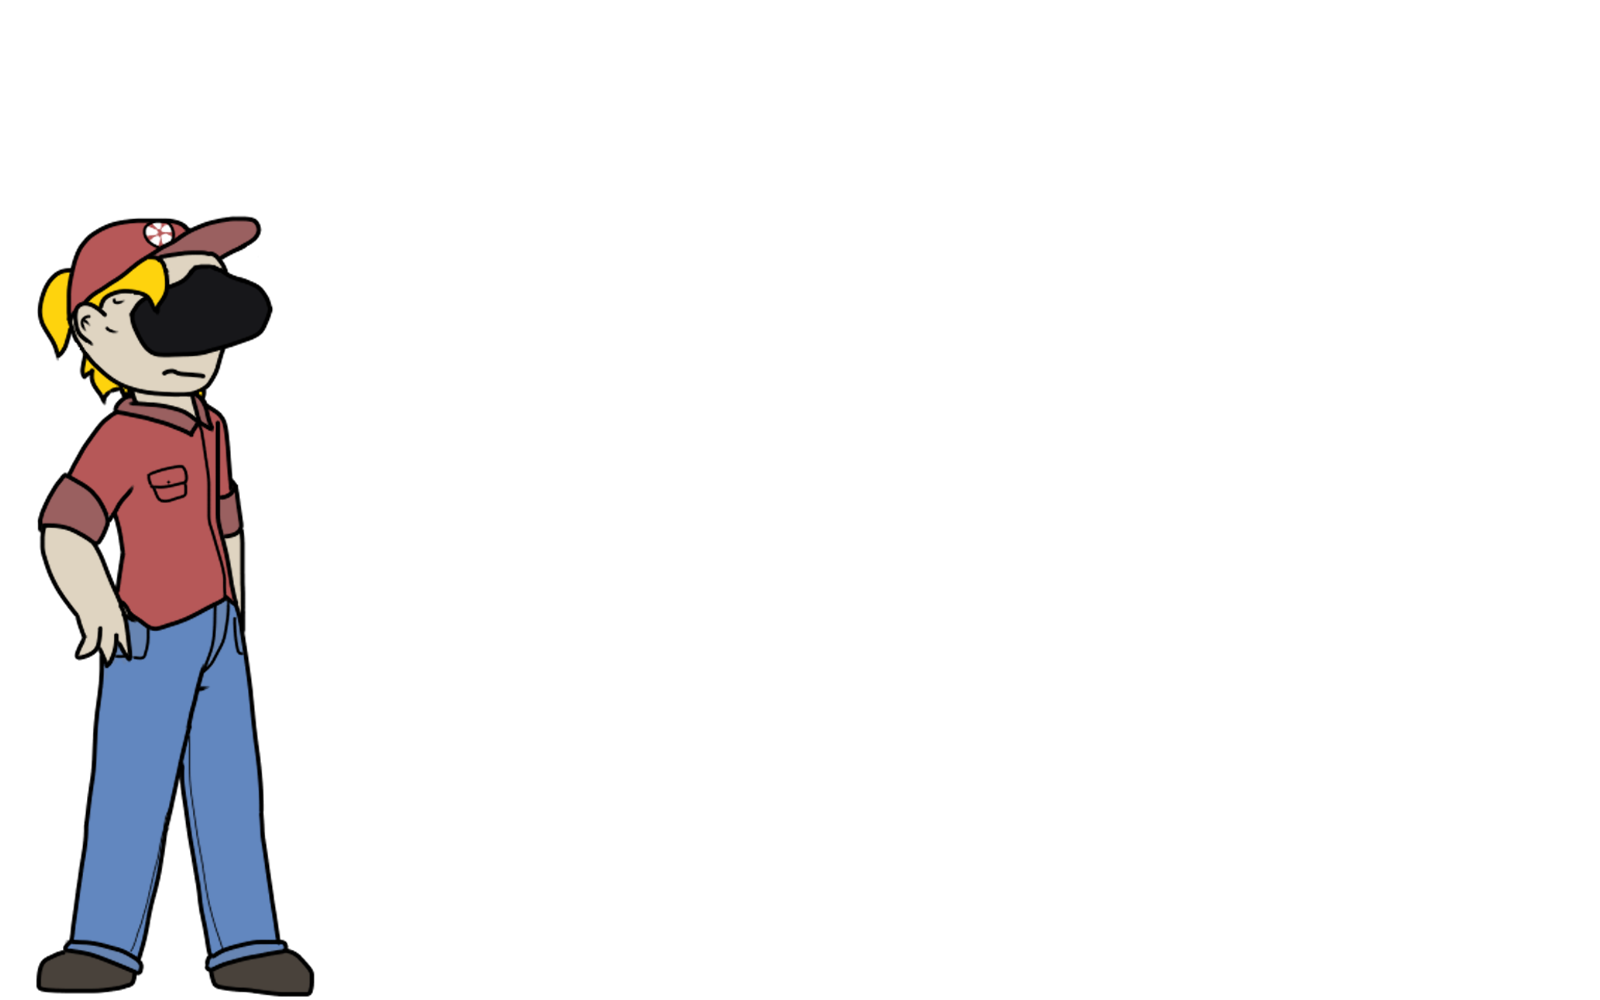
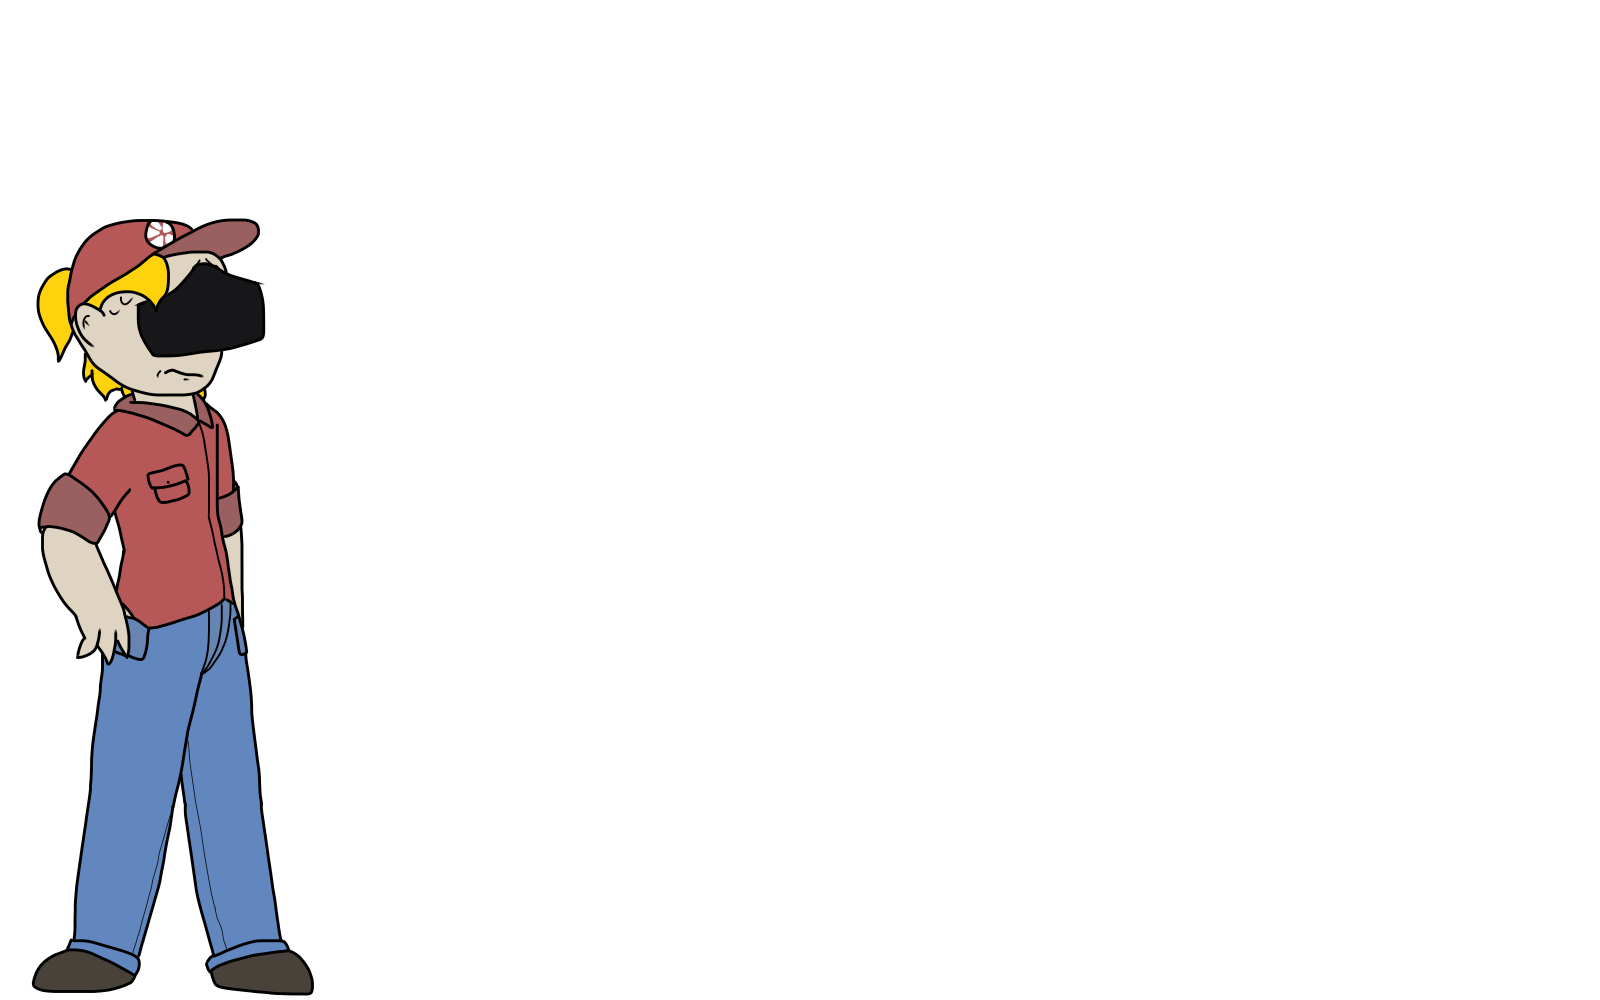
yEET

diff --git a/FinalProject/sketch.js b/FinalProject/sketch.js
@@ -25,26 +25,33 @@ let chiara;
 let showKahl;
 let kahl;
 
-let showFalmer;
-let falmer;
+let showFalia;
+let falia;
 
 
 //jay emotion variables
 let jayEmotion;
 let jayNeutral;
+let jayNeutralMouth;
 let jayDisgruntled;
-let jayConfusedOpen;
+let jayDisgruntledMouth;
+let jayConfusedMouth;
 
 //gooblij emotion variables
-
+let gooblijEmotion;
+let gooblijSmile;
 
 //chiara emotion variables
-
+let chiaraEmotion;
+let chiaraSmile;
 
 //kahl emotion variables
+let kahlEmotion;
+let kahlNeutral;
 
-
-//falmer emotion variables
+//falia emotion variables
+let faliaEmotion;
+let faliaNeutral;
 
 
 let startScreen;
@@ -79,10 +86,16 @@ class Jay {
         image(jayNeutral, 0, 0, theWidth, theHeight);
       }
       else if (jayEmotion === 2) {
-        image(jayDisgruntled, 0, 0, theWidth, theHeight);
+        image(jayNeutralMouth, 0, 0, theWidth, theHeight);
       }
       else if (jayEmotion === 3) {
-        image(jayConfusedOpen, 0, 0, theWidth, theHeight);
+        image(jayConfusedMouth, 0, 0, theWidth, theHeight);
+      }
+      else if (jayEmotion === 4) {
+        image(jayDisgruntled, 0, 0, theWidth, theHeight);
+      }
+      else if (jayEmotion === 5) {
+        image(jayDisgruntledMouth, 0, 0, theWidth, theHeight);
       }
     }
   }
@@ -94,8 +107,11 @@ class Gooblij {
     this.y = 0;
   }
   display() {
-    // if (showGooblij === true) {
-    // }
+    if (showGooblij === true) {
+      if (gooblijEmotion === 1) {
+        image(gooblijSmile, 0, 0, theWidth, theHeight);
+      }
+    }
   }
 }
 
@@ -105,8 +121,11 @@ class Chiara {
     this.y = 0;
   }
   display() {
-    // if (showChiara === true) {
-    // }
+    if (showChiara === true) {
+      if (chiaraEmotion === 1) {
+        image(chiaraSmile, 0, 0, theWidth, theHeight);
+      }
+    }
   }
 }
 
@@ -116,25 +135,36 @@ class Kahl {
     this.y = 0;
   }
   display() {
-    // if (showKahl === true) {
-    // }
+    if (showKahl === true) {
+      if (kahlEmotion === 1) {
+        image(kahlNeutral, 0, 0, theWidth, theHeight);
+      }
+    }
   }
 }
 
-class Falmer {
+class Falia {
   constructor (){
     this.x = 0;
     this.y = 0;
   }
   display() {
-    // if (showFalmer === true) {
-    // }
+    if (showFalia === true) {
+      if (faliaEmotion === 1) {
+        image(faliaNeutral, 0, 0, theWidth, theHeight);
+      }
+    }
   }
 }
 
 function preload() {
   showJay = false;
+  showGooblij = false;
+  showChiara = false;
+  showKahl = false;
+  showFalia = false;
   noText = false;
+
   theWidth = windowWidth;
   theHeight = 7.8 / 16 * theWidth;
   state = 0;
@@ -146,20 +176,22 @@ function preload() {
 
   //jay's emotions
   jayNeutral = loadImage("assets/Jay Neutral.png");
+  jayNeutralMouth = loadImage("assets/Jay Neutral (Mouth).png");
   jayDisgruntled = loadImage("assets/Jay Disgruntled.png");
-  jayConfusedOpen = loadImage("assets/Jay Confused (Mouth).png");
+  jayDisgruntledMouth = loadImage("assets/Jay Disgruntled (Mouth).png");
+  jayConfusedMouth = loadImage("assets/Jay Confused (Mouth).png");
 
   //gooblij's emotions
-
+  gooblijSmile = loadImage("assets/Gooblij Smile.png");
 
   //kahl's emotions
-
+  kahlNeutral = loadImage("assets/Kahl Neutral.png");
 
   //chiara's emotions
+  chiaraSmile = loadImage("assets/Chiara Smile.png");
 
-
-  //the falmer's emotions
-
+  //falia's emotions
+  faliaNeutral = loadImage("assets/Falia Neutral.png");
 
 }
 
@@ -172,7 +204,7 @@ function setup() {
   gooblij = new Gooblij;
   chiara = new Chiara;
   kahl = new Kahl;
-  falmer = new Falmer;
+  falia = new Falia;
 
 }
 
@@ -183,7 +215,7 @@ function draw() {
   gooblij = new Gooblij;
   chiara = new Chiara;
   kahl = new Kahl;
-  falmer = new Falmer;
+  falia = new Falia;
 
   normalTextbox.display();
 }
@@ -251,12 +283,12 @@ function checkPeriod(){
     image(backgroundStart, 0, 0, theWidth, theHeight);
     textColor = "black";
     characterTalk = "Aren't you cute.";
-    jayEmotion = 2;
+    jayEmotion = 4;
   }
   else if (state === 6) {
     image(backgroundStart, 0, 0, theWidth, theHeight);
     textColor = "white";
     characterTalk = "H-hey! I prefer 'tolerable'...";
-    jayEmotion = 2; //make a speaking option
+    jayEmotion = 5;
   }
 }
